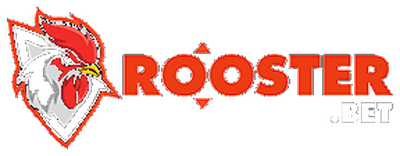
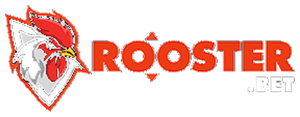
SEO and performance fixes from the pre-launch audit
Titles: a news headline plus " | keno-results.co.nz" ran past what Google
renders, and a truncated brand is worse than no brand - the site name is
already in the WebSite/Organization schema. Headlines over 46 characters now
stand alone, and two long ones get a shorter seoTitle. Articles can also
override the meta description independently of the summary shown on cards;
one blog description was 200 characters.

Images: the masthead artwork was 788x344 for a box that paints it at roughly
89x39 - six times the pixels any display could resolve, on every page. Logos
and partner marks resampled to twice their painted size. 456 KB -> 184 KB,
and the two files loaded on every single page drop from 116 KB to 32 KB.

Claude-Session: https://claude.ai/code/session_01RqBYCdeTruKUteupaGan9z

diff --git a/blog/what-220-draws-say-about-hot-numbers/index.html b/blog/what-220-draws-say-about-hot-numbers/index.html
@@ -4,7 +4,7 @@
 <meta charset="utf-8">
 <meta name="viewport" content="width=device-width, initial-scale=1">
 <title>What 220 draws actually say about hot numbers | keno-results.co.nz</title>
-<meta name="description" content="We hold every Keno draw since 12 July. Widening the window from five draws to 220 collapses the gap between the hottest and coldest number from 100 points to 15 - which is randomness becoming visible.">
+<meta name="description" content="Across 220 Keno draws the gap between the hottest and coldest number collapses from 100 points to 15. That flattening is randomness becoming visible.">
 <link rel="canonical" href="https://keno-results.co.nz/blog/what-220-draws-say-about-hot-numbers/">
 <meta name="robots" content="index, follow, max-image-preview:large">
 
@@ -12,7 +12,7 @@
 <meta property="og:site_name" content="keno-results.co.nz">
 <meta property="og:locale" content="en_NZ">
 <meta property="og:title" content="What 220 draws actually say about hot numbers">
-<meta property="og:description" content="We hold every Keno draw since 12 July. Widening the window from five draws to 220 collapses the gap between the hottest and coldest number from 100 points to 15 - which is randomness becoming visible.">
+<meta property="og:description" content="Across 220 Keno draws the gap between the hottest and coldest number collapses from 100 points to 15. That flattening is randomness becoming visible.">
 <meta property="og:url" content="https://keno-results.co.nz/blog/what-220-draws-say-about-hot-numbers/">
 <meta property="og:image" content="https://keno-results.co.nz/assets/img/icon-512.png">
 <meta name="twitter:card" content="summary">

diff --git a/news/powerball-rolls-again-lotto-first-division-shared-draw-2617/index.html b/news/powerball-rolls-again-lotto-first-division-shared-draw-2617/index.html
@@ -3,7 +3,7 @@
 <head>
 <meta charset="utf-8">
 <meta name="viewport" content="width=device-width, initial-scale=1">
-<title>Powerball rolls again as three tickets share Lotto&#x27;s top prize | keno-results.co.nz</title>
+<title>Powerball Rolls Again: Three Tickets Share Lotto Top Prize</title>
 <meta name="description" content="Draw 2617 produced three First Division Lotto winners taking $333,333 each, but Powerball went unstruck for another draw, carrying its prize pool past $25.4 million.">
 <link rel="canonical" href="https://keno-results.co.nz/news/powerball-rolls-again-lotto-first-division-shared-draw-2617/">
 <meta name="robots" content="index, follow, max-image-preview:large">

diff --git a/news/keno-draw-27711-ten-times-multiplier/index.html b/news/keno-draw-27711-ten-times-multiplier/index.html
@@ -3,7 +3,7 @@
 <head>
 <meta charset="utf-8">
 <meta name="viewport" content="width=device-width, initial-scale=1">
-<title>Keno draw carries a x10 multiplier for only the third time in 223 draws | keno-results.co.nz</title>
+<title>Keno x10 Multiplier Hits for Third Time in 223 Draws</title>
 <meta name="description" content="Friday evening&#x27;s Keno draw was attached to the game&#x27;s largest multiplier. Our own archive of 223 consecutive draws puts that at 1.3 percent of the time.">
 <link rel="canonical" href="https://keno-results.co.nz/news/keno-draw-27711-ten-times-multiplier/">
 <meta name="robots" content="index, follow, max-image-preview:large">

diff --git a/news/bullseye-first-division-rolls-over-draw-6155/index.html b/news/bullseye-first-division-rolls-over-draw-6155/index.html
@@ -3,7 +3,7 @@
 <head>
 <meta charset="utf-8">
 <meta name="viewport" content="width=device-width, initial-scale=1">
-<title>Bullseye top prize rolls over after 835391 draw | keno-results.co.nz</title>
+<title>Bullseye top prize rolls over after 835391 draw</title>
 <meta name="description" content="Friday&#x27;s Bullseye draw produced no First Division winner, leaving a prize pool of $263,857 to carry forward. A single ticket took Third Division for $1,272.">
 <link rel="canonical" href="https://keno-results.co.nz/news/bullseye-first-division-rolls-over-draw-6155/">
 <meta name="robots" content="index, follow, max-image-preview:large">

diff --git a/tools/build.py b/tools/build.py
@@ -1184,10 +1184,16 @@ def build():
                         "blog", "news", "about", "contact"):
                 out = out.replace("{c_%s}" % key,
                                   ' aria-current="page"' if key == kind else "")
+            # A headline plus " | keno-results.co.nz" runs past what Google will
+            # render, and a truncated brand is worse than no brand - the site name
+            # is already in the schema. Long headlines carry themselves.
+            head = html.escape(a.get("seoTitle") or a["title"])
+            page_title = head if len(head) > 46 else head + " | keno-results.co.nz"
             out = (out
-                   .replace("{title}", html.escape(a["title"]) + " | keno-results.co.nz")
+                   .replace("{title}", page_title)
                    .replace("{og_title}", html.escape(a["title"]))
-                   .replace("{description}", html.escape(a["summary"]))
+                   .replace("{description}",
+                            html.escape(a.get("metaDescription") or a["summary"]))
                    .replace("{canonical}", canonical)
                    .replace("{robots}", "index, follow, max-image-preview:large")
                    .replace("{site}", SITE)
